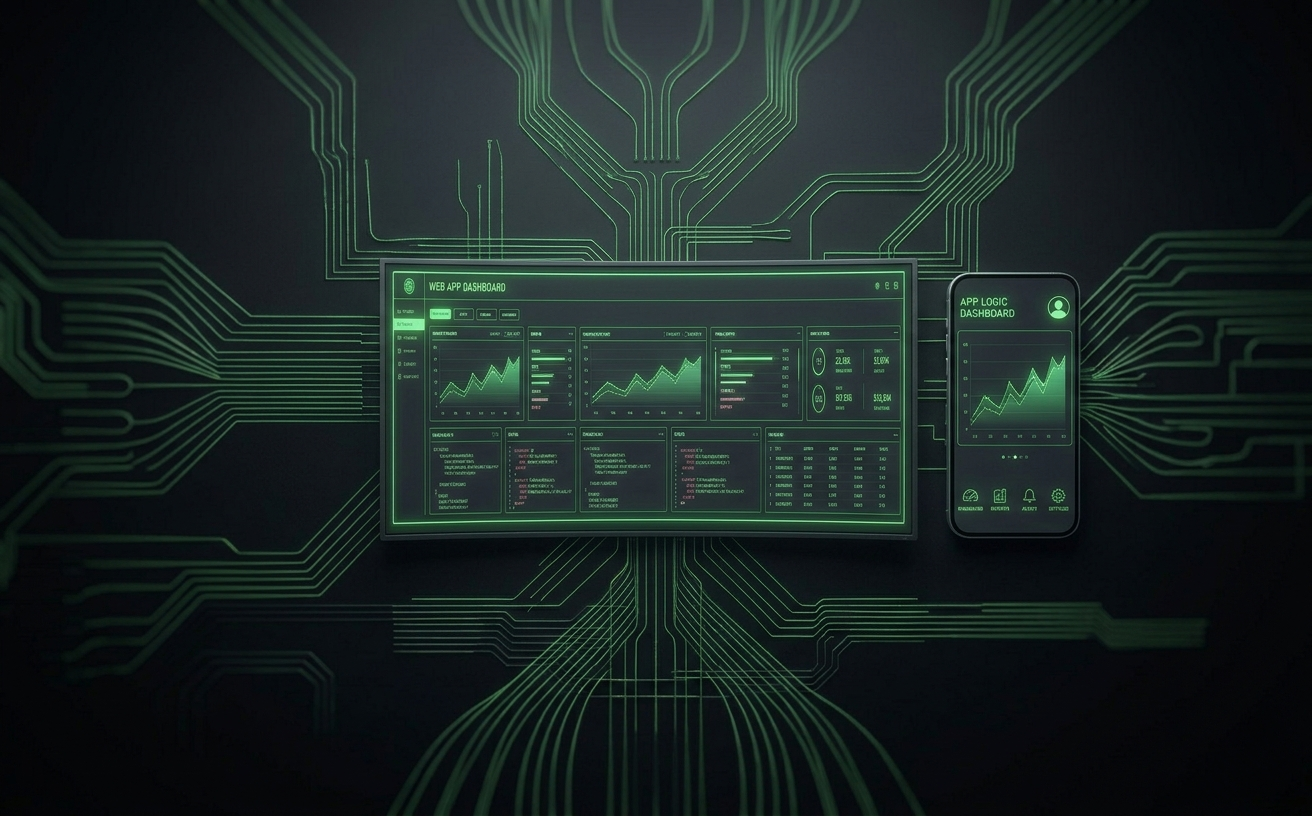
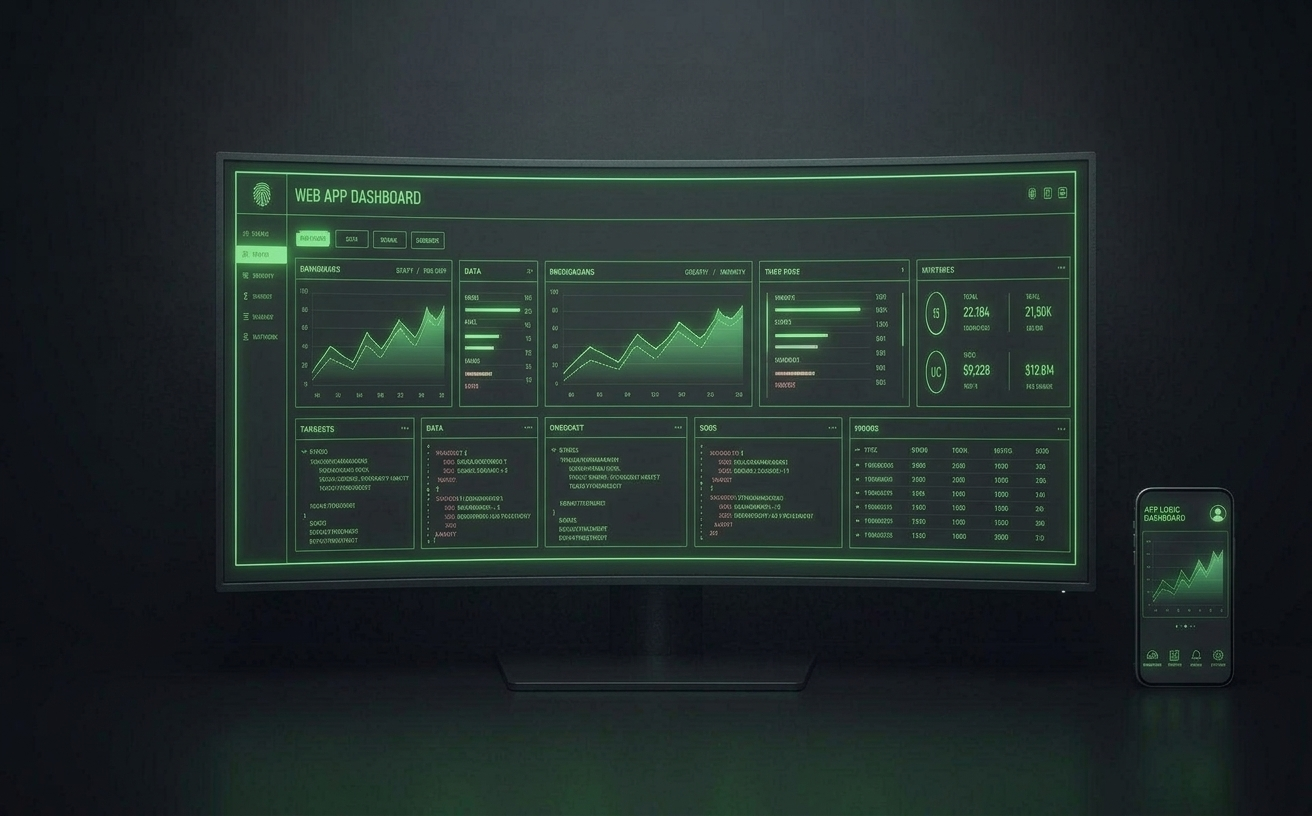
Adicionar cards Programação Desk e Integração DB e atualizar histórico do projeto

Changed region(s): [[0.0938, 0.0, 0.9688, 1.0], [0.0, 0.337, 0.0312, 0.4596]]

diff --git a/src/App.jsx b/src/App.jsx
@@ -28,16 +28,16 @@ const FEATURES = [
     description: 'Desenvolvimento Back End, Front e App Mobile',
   },
   {
-    id: 'em-desenvolvimento-1',
-    title: 'Em Desenvolvimento',
-    image: './img/pci.jpg',
-    description: 'Aplicação em Desenvolvimento',
+    id: 'desk',
+    title: 'Programação Desk',
+    image: './img/desk.jpg',
+    description: 'Desenvolvimento e Integração de aplicações Desk',
   },
   {
-    id: 'em-desenvolvimento-2',
-    title: 'Em Desenvolvimento',
-    image: './img/pci.jpg',
-    description: 'Aplicação em Desenvolvimento',
+    id: 'database',
+    title: 'Desenvolvimento e Integração DB',
+    image: './img/database.jpg',
+    description: 'Aplicações Database PostgreSQL e MySQL (Neon e Aiven)',
   },
   {
     id: 'em-desenvolvimento-3',

diff --git a/CLAUDE.md b/CLAUDE.md
@@ -2,6 +2,8 @@
 
 Este arquivo registra o contexto técnico, as decisões, as alterações e o estado atual do projeto para que o trabalho possa continuar em outra sessão.
 
+**Regra permanente (pedido do proprietário):** toda alteração feita no projeto deve ser registrada neste arquivo no mesmo momento, sem exceção. Se o console for fechado, este arquivo deve bastar para retomar o trabalho de onde parou. Atualizar: estrutura, estado atual, histórico de alterações e pendências.
+
 ## Projeto
 
 - Nome: **Amaury Automation**.
@@ -9,21 +11,58 @@ Este arquivo registra o contexto técnico, as decisões, as alterações e o est
 - Repositório GitHub: `https://github.com/amaurysimoes/Amaury_Automation`.
 - Branch de trabalho/publicação: `main`.
 - Stack: JavaScript, React e Vite; não é um projeto Python.
-- Objetivo atual: portal para organizar vários projetos, mantendo a área de conteúdo preparada para módulos que serão definidos posteriormente.
-- Layout atual: página única em seções, seguindo apenas a estrutura de `https://master.dev/join/` (cabeçalho com navegação, hero, planos em três grupos, recursos incluídos, logos, depoimentos, FAQ e rodapé). Textos, marca, cores e código do template não são copiados; todo o conteúdo é provisório e as imagens são cinzas.
+- Objetivo atual: portal para organizar vários projetos (automação, IoT, web/mobile, desktop, bancos de dados), com seções e cards que levam a cada aplicação.
 - O tema dark é predominante e o padrão. O seletor deslizante permite light, persiste a escolha em `localStorage` e sincroniza abas abertas do mesmo site.
-- Referência de estilo: `C:\Dev-AHS\IA_automation_front`. Foi solicitada apenas a paleta escura, sem copiar componentes, imagens ou funcionalidades.
-- Paleta atual (tokens em `src/styles.css`, tema dark): fundo `#17191f`, barra/seções alternadas `#13151a`, superfície `#1d2028`, texto `#edf0f7` e azul oficial `#2B3CF5` (extraído do ícone `img/circuito-azul.svg`). A paleta inicial `#212121`/`#ececec` foi substituída na evolução do layout.
-- Imagens provisórias: `public/img/placeholder.svg` (cinza). Cada `<img class="placeholder">` em `src/App.jsx` deve ter seu `src` trocado pela imagem final.
+- Referência de estilo: `C:\Dev-AHS\IA_automation_front` (somente a paleta escura; sem copiar componentes, imagens ou funcionalidades).
+- Referência estrutural: `https://master.dev/join/`. Usada apenas para a organização geral da página; textos, marca, cores e código do template não são copiados.
 - Preferência de apresentação do projeto: documentação e commits devem ser escritos como documentação normal do projeto, sem atribuições ou comentários sobre ferramentas de assistência.
+- O proprietário escreve rápido e às vezes com erros de digitação nos textos pedidos. Corrigir erros óbvios de ortografia e avisar a correção; em dúvida, perguntar.
+- Commit e push somente quando o proprietário pedir.
+
+## Estado atual da página (`src/App.jsx`)
+
+Página única, na ordem:
+
+1. **Cabeçalho fixo**: marca "AmauryProjects" (ícone azul + texto, fonte 0.94rem + 2px), menu com **Projetos Exemplo** (→ `#recursos`) e **Teste e Downloads** (→ `#teste-downloads`), seletor de tema, botões "Entrar" e "Participar" (ainda sem destino) e menu para celular (até 860px).
+2. **Hero**: imagem de fundo `background_projeto.jpg` (opacidade `--hero-image-opacity`: 0.32 no dark, 0.16 no light, com esmaecimento na base) e apenas o texto **"Projetos e Automação"** (`.hero__tag`): verde neon com brilho no tema escuro, azul neon no claro, fonte 0.78rem + 4px.
+3. **Grade de cards** (`#recursos`, 3 colunas, 2 fileiras): lista `FEATURES` no topo do arquivo (`id`, `title`, `image`, `description`). A imagem de cada card é um link para a seção de detalhe com o mesmo `id`.
+
+   | Card | Imagem | Descrição |
+   | --- | --- | --- |
+   | Aplicações IOT (`iot`) | `iot.jpg` | Projetos de Integração com dispositivos Residenciais e Móveis. |
+   | IA e Automação (`automacao`) | `automacao.jpg` | Projetos de Automação e Integração de Hardwares com IA |
+   | Web e Mobile (`web-mobile`) | `webmob.jpg` | Desenvolvimento Back End, Front e App Mobile |
+   | Programação Desk (`desk`) | `desk.jpg` | Desenvolvimento e Integração de aplicações Desk |
+   | Desenvolvimento e Integração DB (`database`) | `database.jpg` | Aplicações Database PostgreSQL e MySQL (Neon e Aiven) |
+   | Em Desenvolvimento (`em-desenvolvimento-3`) | `pci.jpg` | Aplicação em Desenvolvimento |
+
+4. **Tópico "Testes e Download"** (`#teste-downloads`): título pequeno, discreto, alinhado à esquerda (`.topic`). Sem conteúdo ainda.
+5. **Seções de detalhe**: uma por card, geradas da mesma lista `FEATURES` (título, descrição, bloco cinza em degradê com o símbolo `circuito-cinza.svg` e o texto "Em desenvolvimento", e o link "← Voltar aos projetos" para `#recursos`).
+6. **Rodapé**: marca "AmauryProjects" e, centralizado, "Copyright © 2026 Amaury Huerb Simões" (ano escrito direto no código).
+
+### Efeitos visuais (`src/styles.css`)
+
+- Token `--neon`: `#39ff14` (dark) e `#1f51ff` (light). Todos os efeitos neon usam esse token.
+- Cada card tem caixa com borda neon, brilho ao redor (mais forte no hover) e um brilho que percorre a borda (`@property --glow-angle` + `conic-gradient`, 4s).
+- O bloco "Em desenvolvimento" das seções de detalhe tem borda neon pulsante e sombra larga (`@keyframes neon-pulse`, 2.8s).
+- `prefers-reduced-motion` desliga animações.
+- Rolagem suave (`scroll-behavior: smooth`) e `scroll-margin-top: 84px` por causa do cabeçalho fixo.
+- Espaçamentos ajustados a pedido: hero com 32px embaixo; `#recursos` com 40px em cima; seções `.detail` com padding `12px 0 40px`.
+- **Tema light** em cinza suave (pedido: o branco estava forte): fundo `#d5d8df`, barra/faixas `#e0e3e9`, superfície `#e6e8ee`, texto `#1c202b`. `theme-color` do navegador no light: `#d5d8df`.
+- Paleta dark: fundo `#17191f`, barra `#13151a`, superfície `#1d2028`, texto `#edf0f7`, azul oficial `#2B3CF5`.
+
+### Imagens
+
+- Os arquivos originais ficam em `img/` e **devem ser copiados para `public/img/`** (somente o que está em `public/` vai para o site). Se uma imagem for substituída mantendo o nome, copiar de novo para `public/img/` e conferir com `cmp`.
+- Imagens dos cards: **1280 × 800 px (16:10)**; as atuais têm 1312 × 816 e encaixam sem cortes.
+- `public/img/placeholder.svg`: cinza, usado em cards sem imagem.
+- `img/iotfire.jpg`: arquivo adicionado pelo proprietário, ainda sem uso no código (não versionado na última verificação).
 
 ## Estrutura atual
 
 ```text
 Amaury_Automation/
-├── .github/
-│   └── workflows/
-│       └── deploy.yml
+├── .github/workflows/deploy.yml
 ├── .gitignore
 ├── CLAUDE.md
 ├── DocumentacaoTecnica/
@@ -38,13 +77,9 @@ Amaury_Automation/
 ├── package.json
 ├── public/
 │   ├── CNAME
-│   └── img/
-│       ├── circuito-azul.svg
-│       ├── circuito-cinza.svg
-│       └── placeholder.svg
-├── img/
-│   ├── circuito-azul.svg
-│   └── circuito-cinza.svg
+│   └── img/ (circuito-azul.svg, circuito-cinza.svg, placeholder.svg, background_projeto.jpg,
+│            iot.jpg, automacao.jpg, webmob.jpg, desk.jpg, database.jpg, pci.jpg)
+├── img/ (originais das imagens acima)
 ├── src/
 │   ├── App.jsx
 │   ├── main.jsx
@@ -54,48 +89,49 @@ Amaury_Automation/
 
 ### Arquivos importantes
 
-- `src/App.jsx`: página em seções (cabeçalho com menu responsivo e seletor de tema, hero, planos, recursos, logos, depoimentos, FAQ e rodapé). Os dados das seções ficam em constantes no topo do arquivo.
+- `src/App.jsx`: página em seções; dados dos cards na constante `FEATURES`, menu em `NAV_LINKS`.
 - `src/main.jsx`: aplica o tema salvo antes da montagem do React, importa o CSS e monta a página em `#root`.
-- `src/styles.css`: tokens de tema (dark por padrão e light), seletor, componentes das seções e responsividade (breakpoints 860px e 600px).
+- `src/styles.css`: tokens de tema (dark e light), componentes, efeitos neon e responsividade (breakpoints 860px e 600px).
 - `index.html`: HTML inicial, idioma `pt-BR`, metadados, favicon oficial e título da aba.
-- `package.json`: dependências e comandos `dev`, `build` e `preview`.
-- `package-lock.json`: lockfile npm; manter versionado e usar `npm ci` em instalação limpa.
-- `vite.config.js`: configuração Vite e caminho relativo `base: './'`, para funcionar no GitHub Pages com domínio próprio.
-- `public/CNAME`: contém exatamente `automationprojects.top`; durante o build, Vite copia para `dist/CNAME`.
-- `img/circuito-azul.svg`: arquivo original do ícone oficial azul fornecido para o projeto. A cópia em `public/img` é disponibilizada no site e usada na página e como favicon.
-- `img/circuito-cinza.svg`: variação cinza fornecida, mantida para uso futuro.
+- `vite.config.js`: Vite com `base: './'`, para funcionar no GitHub Pages com domínio próprio.
+- `public/CNAME`: exatamente `automationprojects.top`; o Vite copia para `dist/CNAME`.
 - `.github/workflows/deploy.yml`: build e deploy automáticos do GitHub Pages a cada push para `main`, além de execução manual (`workflow_dispatch`).
-- `DocumentacaoTecnica/EstruturaProjeto.md`: guia detalhado para recriar manualmente o projeto do zero.
-- `EstruturaProjeto.md`: guia introdutório semelhante na raiz. A cópia da pasta `DocumentacaoTecnica` é a documentação mais completa.
-- `DocumentacaoTecnica/Atualizar_Git.md`: passos breves para enviar atualizações ao GitHub.
-- `DocumentacaoTecnica/Git_Push.md`: instruções de configuração inicial do remoto e primeiro push.
-- `DocumentacaoTecnica/PublicarGit.md`: publicação do site pelo GitHub Pages e configuração do domínio personalizado.
-- `README.md`: apresentação e comandos básicos para rodar e gerar o build.
+- `DocumentacaoTecnica/` e `EstruturaProjeto.md` (raiz): guias de recriação, Git e publicação. **O guia de estrutura ainda descreve a versão antiga da página (sidebar); atualizar quando o proprietário pedir.**
+- `img/circuito-azul.svg`: ícone oficial azul (`#2B3CF5`), usado na marca e no favicon. `circuito-cinza.svg`: usado nos blocos "Em desenvolvimento".
 
 ## Histórico de decisões e alterações
 
-1. Foi solicitada uma página inicial Vite + React com aparência escura, aproveitando somente as cores do projeto de referência. O texto definido foi “Projetos em Desenvolvimento.” e “Amaury Huerb”.
-2. A pasta de trabalho inicialmente continha apenas `DocumentacaoTecnica/Git_Push.txt`; não havia projeto Vite nem repositório Git local.
-3. Foi criado o projeto web mínimo com React e Vite, sem dependências visuais desnecessárias. A página recebeu fundo `#212121`, texto claro e destaque azul, com grade sutil, brilho azul, centralização e ajustes para telas pequenas.
-4. Foram adicionados `.gitignore`, `README.md`, arquivos Vite/React e documentação para execução e build.
-5. A solicitação para documentar a recriação manual do projeto foi atendida em `DocumentacaoTecnica/EstruturaProjeto.md`; também há uma cópia resumida na raiz. O guia contém pré-requisitos, scaffolding Vite, conteúdo dos arquivos, execução, build, Git e publicação.
-6. O projeto foi inicializado em Git, configurado com remoto `origin` para `https://github.com/amaurysimoes/Amaury_Automation.git`, e enviado para a branch `main`.
-7. Foram criados guias separados para atualizar o Git e publicar o site como página web.
-8. A publicação foi configurada via GitHub Pages e GitHub Actions. O workflow instala Node.js 22, executa `npm ci`, executa `npm run build`, faz upload de `dist` e implanta usando `actions/deploy-pages`.
-9. O endereço planejado para o site passou do endereço padrão do Pages para o domínio próprio `automationprojects.top`.
-10. Para suportar o domínio, `vite.config.js` foi alterado para `base: './'` e `public/CNAME` foi criado com o domínio.
-11. `DocumentacaoTecnica/PublicarGit.md` documenta o DNS esperado, o cadastro em **Settings → Pages → Custom domain**, HTTPS, o fluxo de deploy, diagnóstico e publicação de futuras atualizações.
-12. Foi solicitado que os arquivos e commits não tenham atribuições ou comentários de ferramentas de assistência. Não adicionar essas atribuições aos novos commits.
-13. Foram fornecidos `img/circuito-azul.svg` e `img/circuito-cinza.svg`. O azul do ícone oficial é exatamente `#2B3CF5`; foi adotado como cor de destaque, no brilho e favicon. Os SVGs são copiados para `public/img` para que o Vite os inclua no build; o ícone azul também é exibido na página inicial.
-14. A cor oficial azul foi aplicada ao token de destaque, aos efeitos de brilho, ao ícone exibido na página e ao favicon. Os SVGs originais e suas cópias em `public/img` permanecem no repositório.
-15. Foi adicionado um botão deslizante para alternar entre tema escuro e claro. A escolha persiste em `localStorage`, atualiza a cor da barra do navegador e sincroniza outras abas abertas. O tema escuro continua sendo o padrão para primeiras visitas.
-16. A página inicial evoluiu para uma workspace original, inspirada apenas na organização geral de uma interface de trabalho: sidebar responsiva, breadcrumb, seletor de tema e área vazia para projetos futuros. O conteúdo e a implementação são próprios; a logo já existente é mantida na navegação.
-17. A identidade visual do ícone oficial foi aplicada (commit `3765831`).
-18. O layout foi reorganizado conforme a estrutura do template `master.dev/join`, substituindo a sidebar/workspace por uma página única com seções. Imagens substituídas por placeholders cinza (`public/img/placeholder.svg`) a serem trocados depois. O texto “Projetos em Desenvolvimento” foi mantido como título do hero.
+1. Página inicial Vite + React com aparência escura, usando só as cores do projeto de referência. Texto inicial: “Projetos em Desenvolvimento.” e “Amaury Huerb”.
+2. A pasta continha apenas `DocumentacaoTecnica/Git_Push.txt`; não havia projeto Vite nem repositório Git.
+3. Criado o projeto mínimo com React e Vite, sem dependências visuais desnecessárias.
+4. Adicionados `.gitignore`, `README.md`, arquivos Vite/React e documentação.
+5. Guia de recriação manual em `DocumentacaoTecnica/EstruturaProjeto.md` (cópia resumida na raiz).
+6. Git inicializado, remoto `origin` configurado e enviado para `main`.
+7. Guias separados para atualizar o Git e publicar o site.
+8. Publicação via GitHub Pages e GitHub Actions (Node.js 22, `npm ci`, `npm run build`, `actions/deploy-pages`).
+9. Endereço planejado: domínio próprio `automationprojects.top`.
+10. `vite.config.js` com `base: './'` e `public/CNAME` criado.
+11. `DocumentacaoTecnica/PublicarGit.md` documenta DNS, domínio, HTTPS, deploy e diagnóstico.
+12. Arquivos e commits sem atribuições de ferramentas de assistência.
+13. Fornecidos `img/circuito-azul.svg` e `img/circuito-cinza.svg`; azul oficial `#2B3CF5` adotado como destaque e favicon.
+14. Cor oficial aplicada ao token de destaque, brilhos, ícone da página e favicon.
+15. Botão deslizante de tema escuro/claro com persistência em `localStorage`, `theme-color` e sincronização entre abas.
+16. Página evoluiu para uma workspace com sidebar, breadcrumb e área vazia (depois substituída, ver 18).
+17. Identidade visual do ícone oficial aplicada (commit `3765831`).
+18. Layout reorganizado conforme a estrutura do template `master.dev/join`: página única com seções; imagens substituídas por placeholders cinza.
+19. Seções do template removidas a pedido, uma a uma: planos (Indivíduos/Equipes/Empresas), "O que está incluído?", depoimentos, FAQ, subtítulo/prova social/aviso do hero, links do rodapé, selos de lojas e textos do rodapé ("AMAURY AUTOMATION", "Um espaço para novas ideias"). Links "Blog" e "Recursos" saíram do menu.
+20. Fundo do hero: `background.jpg` foi usado como marca d'água, depois movido para o hero no lugar do quadriculado; trocado por `background_projeto.jpg` (o antigo foi apagado).
+21. Cards definidos com imagens reais e textos (tabela acima). Chave de lista passou a ser o `id`.
+22. Clique na imagem do card leva (rolagem suave) à seção de detalhe correspondente; as seções são geradas da lista `FEATURES`. Título "Projetos" acima dos cards removido por redundância.
+23. Hero: texto "Projetos e Automação" em neon (verde no dark, azul no light). Antes passou por "Painel de Projetos" (removido) e "Projetos em Desenvolvimento".
+24. Menu: "Projetos Exemplo" e "Teste e Downloads" (→ seção `#teste-downloads`, título "Testes e Download", discreto no canto esquerdo).
+25. Cards com borda neon, brilho e brilho percorrendo a borda; blocos "Em desenvolvimento" com borda neon pulsante.
+26. Tema light escurecido para cinza suave.
+27. Copyright centralizado no rodapé: "Copyright © 2026 Amaury Huerb Simões".
+28. `webmob.jpg` substituído por nova versão (mesmo nome); cópia em `public/img` atualizada.
+29. Cards 4 e 5 definidos: **Programação Desk** (`desk.jpg`) e **Desenvolvimento e Integração DB** (`database.jpg`; texto "MySQL" com a grafia correta). Apenas o último card segue como "Em Desenvolvimento" (`pci.jpg`).
 
-## Histórico de commits já enviados
-
-Todos estes commits foram enviados para `origin/main`:
+## Histórico de commits enviados
 
 | Commit | Mensagem |
 | --- | --- |
@@ -108,38 +144,29 @@ Todos estes commits foram enviados para `origin/main`:
 | `6c04bdf` | Preparar domínio personalizado para o site |
 | `eec3456` | Registrar histórico e continuidade do projeto |
 | `3765831` | Aplicar identidade visual do ícone oficial |
+| `4e5cc47` | Reorganizar página em seções com imagem de fundo e cards de projetos |
+| `b3e3d95` | update |
+| `04d18eb` | Update |
 
-O commit `ba01788` também incluiu `DocumentacaoTecnica/Git_Push.md`, que já existia no workspace e tinha o URL e os comandos iniciais de GitHub fornecidos para o repositório. O histórico é aditivo; não reescrever/amendar commits existentes.
+O histórico é aditivo; não reescrever/amendar commits existentes.
 
 ## Estado confirmado na última verificação
 
-- Branch local: `main`.
-- Remoto: `origin` → `https://github.com/amaurysimoes/Amaury_Automation.git`.
-- A branch local estava sincronizada com `origin/main` antes de criar este histórico.
-- O build `npm run build` passou após a configuração do domínio personalizado.
-- O deploy do commit `6c04bdf` no workflow **Deploy to GitHub Pages** terminou com sucesso.
-- A configuração Pages consultada pela API do GitHub indicava `build_type: workflow`, `https_enforced: true`, porém `cname: null`; portanto o domínio personalizado ainda não havia sido cadastrado nas configurações do repositório.
-- A última consulta DNS encontrou `automationprojects.top A → 208.115.225.220`, que não é um IP do GitHub Pages. O domínio, portanto, ainda não estava direcionado a este site.
-- O último status DNS confirmado foi em 4 de novembro de 2026. Consultar novamente antes de tirar conclusões sobre o estado atual.
+- Branch local `main`, sincronizada com `origin/main` em `04d18eb`.
+- **Alterações ainda não commitadas** (itens 28 e 29): `src/App.jsx` (cards Desk e DB), `img/webmob.jpg` e `public/img/webmob.jpg` (nova versão), `img/desk.jpg`, `img/database.jpg` e suas cópias em `public/img/`, além de `img/iotfire.jpg` (sem uso). Este `CLAUDE.md` também.
+- O build `npm run build` passou após essas alterações.
+- Deploy do commit `4e5cc47` falhou por timeout na etapa de publicação; o deploy do commit seguinte (`b3e3d95`) terminou com sucesso. Nada foi conferido depois disso.
+- A API do Pages indicava `cname: automationprojects.top` (domínio cadastrado) e `https_enforced: true`. Em 4 de novembro de 2026 o DNS já apontava para os IPs do GitHub Pages (185.199.x.x), mas `https://automationprojects.top/` ainda não respondia (certificado pendente) e o `http` devolvia 403. Como o `github.io` redireciona os arquivos do site para o domínio, o site pode aparecer quebrado até o certificado sair. **Consultar novamente antes de concluir qualquer coisa.**
 - Não registrar, incluir ou expor credenciais, tokens ou segredos neste arquivo.
 
-## O que falta para o domínio próprio funcionar
+## Pendências conhecidas
 
-1. No painel do provedor que gerencia o DNS de `automationprojects.top`, substituir o registro `A` atual (`208.115.225.220`) pelos quatro registros abaixo. Remover registros conflitantes para o host `@`, incluindo registros AAAA antigos se houver:
-
-   | Tipo | Host | Valor |
-   | --- | --- | --- |
-   | A | `@` | `185.199.108.153` |
-   | A | `@` | `185.199.109.153` |
-   | A | `@` | `185.199.110.153` |
-   | A | `@` | `185.199.111.153` |
-
-2. Opcionalmente, para `www.automationprojects.top`, criar `CNAME`, host `www`, apontando para `amaurysimoes.github.io`.
-3. No GitHub, abrir `https://github.com/amaurysimoes/Amaury_Automation/settings/pages`, informar `automationprojects.top` no campo **Custom domain** e salvar. A API ainda mostrava `cname: null` na última consulta; essa etapa precisa ser verificada.
-4. Aguardar propagação do DNS e emissão/validação do certificado HTTPS. Ativar **Enforce HTTPS** quando o GitHub disponibilizar a opção.
-5. Confirmar que `https://automationprojects.top/` abre o site. Propagação DNS pode demorar; consultar novamente DNS antes de diagnosticar.
-
-Os registros A do provedor não foram alterados pelo projeto. A troca pode interromper qualquer serviço que ainda esteja usando o IP antigo `208.115.225.220`; verificar isso com o proprietário do domínio antes de alterá-los.
+- Confirmar que `https://automationprojects.top/` abre o site novo e ativar **Enforce HTTPS** quando disponível; opcionalmente criar `CNAME` `www` → `amaurysimoes.github.io`.
+- Definir imagem e texto do último card "Em Desenvolvimento" e o conteúdo real das seções de detalhe (hoje com bloco cinza "Em desenvolvimento").
+- Definir o conteúdo da seção "Testes e Download" e o destino dos botões "Entrar" e "Participar".
+- Decidir o uso de `img/iotfire.jpg`.
+- Limpar CSS sem uso (estilos de planos, depoimentos, FAQ, logos, avatares e aviso do hero) e atualizar `EstruturaProjeto.md`/`README.md` para a página atual.
+- O ano do copyright está fixo no código.
 
 ## Comandos usuais para continuar
 
@@ -151,7 +178,7 @@ npm ci
 npm run dev
 ```
 
-Abrir o endereço local mostrado pelo Vite, normalmente `http://localhost:5173`. Encerrar com `Ctrl+C`.
+Abrir `http://localhost:5173`. Encerrar com `Ctrl+C` (no Windows responder `s` à pergunta sobre finalizar o arquivo em lotes).
 
 ### Validar produção
 
@@ -170,20 +197,24 @@ git commit -m "Descrever a alteração"
 git push
 ```
 
-O push para `main` inicia o deploy do GitHub Pages. Conferir a execução na aba **Actions** ou, se o GitHub CLI estiver disponível e autenticado:
+O push para `main` inicia o deploy do GitHub Pages. Conferir na aba **Actions** ou:
 
 ```powershell
 gh run list --workflow deploy.yml --limit 5
 ```
 
-Não versionar `node_modules` ou `dist` (ambos estão no `.gitignore`). Não usar `git push --force` para resolver divergências; primeiro sincronizar com `git pull --rebase` e tratar eventuais conflitos.
+Se o `git add .` for seguido de `git commit` e o Git disser que há arquivos não preparados, algum arquivo foi gravado pelo editor depois do `add`; salvar tudo e repetir com `git add -A`.
+
+Não versionar `node_modules` ou `dist` (estão no `.gitignore`). Não usar `git push --force`; primeiro `git pull --rebase`.
 
 ## Orientação para futuras alterações
 
 - Manter React + Vite; não trocar a stack sem pedido.
-- Preservar o texto inicial e a paleta acordada, a menos que haja solicitação para alterá-los.
-- Tratar `#2B3CF5` do SVG `img/circuito-azul.svg` como azul oficial; sincronizar `public/img/circuito-azul.svg`, o favicon, o ícone da página, os tokens e os exemplos de CSS/documentação ao atualizar a identidade.
-- Ao mexer em estilos ou dependências, conferir o comportamento local e executar `npm run build`.
+- **Atualizar este arquivo a cada alteração** (regra permanente acima).
+- Preservar a paleta acordada, a menos que haja pedido para alterá-la; usar o token `--neon` para efeitos neon.
+- Tratar `#2B3CF5` de `img/circuito-azul.svg` como azul oficial; sincronizar `public/img/circuito-azul.svg`, o favicon, o ícone da página e os tokens ao atualizar a identidade.
+- Ao mexer em estilos, imagens ou dependências, conferir o comportamento local e executar `npm run build`.
+- Imagem nova ou substituída: copiar de `img/` para `public/img/`.
 - Ao alterar publicação, manter coerentes o `base` do Vite, `public/CNAME`, workflow e instruções.
 - Atualizar a documentação técnica quando o processo de criação, execução ou publicação mudar.
-- Fazer commits descritivos, sem atribuições de ferramentas, e nunca incluir segredos.
+- Commits descritivos, sem atribuições de ferramentas, e nunca incluir segredos.
